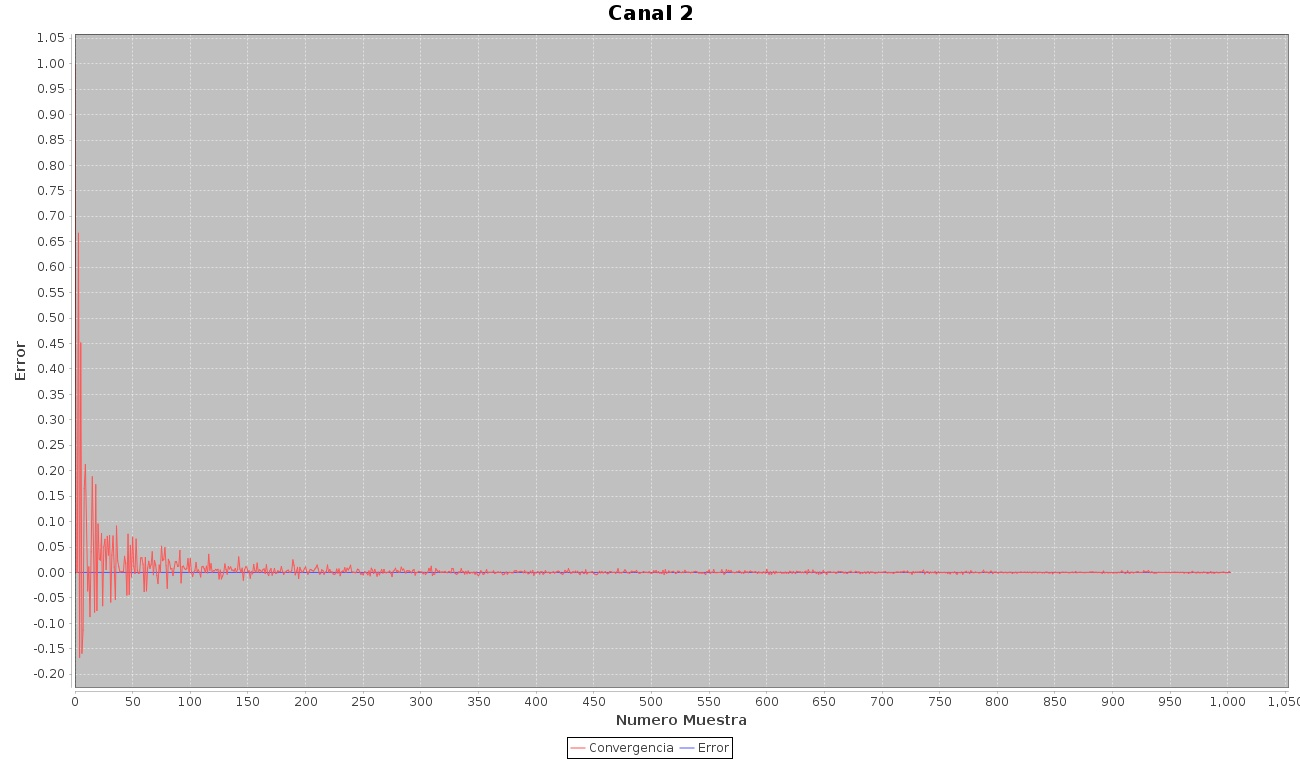
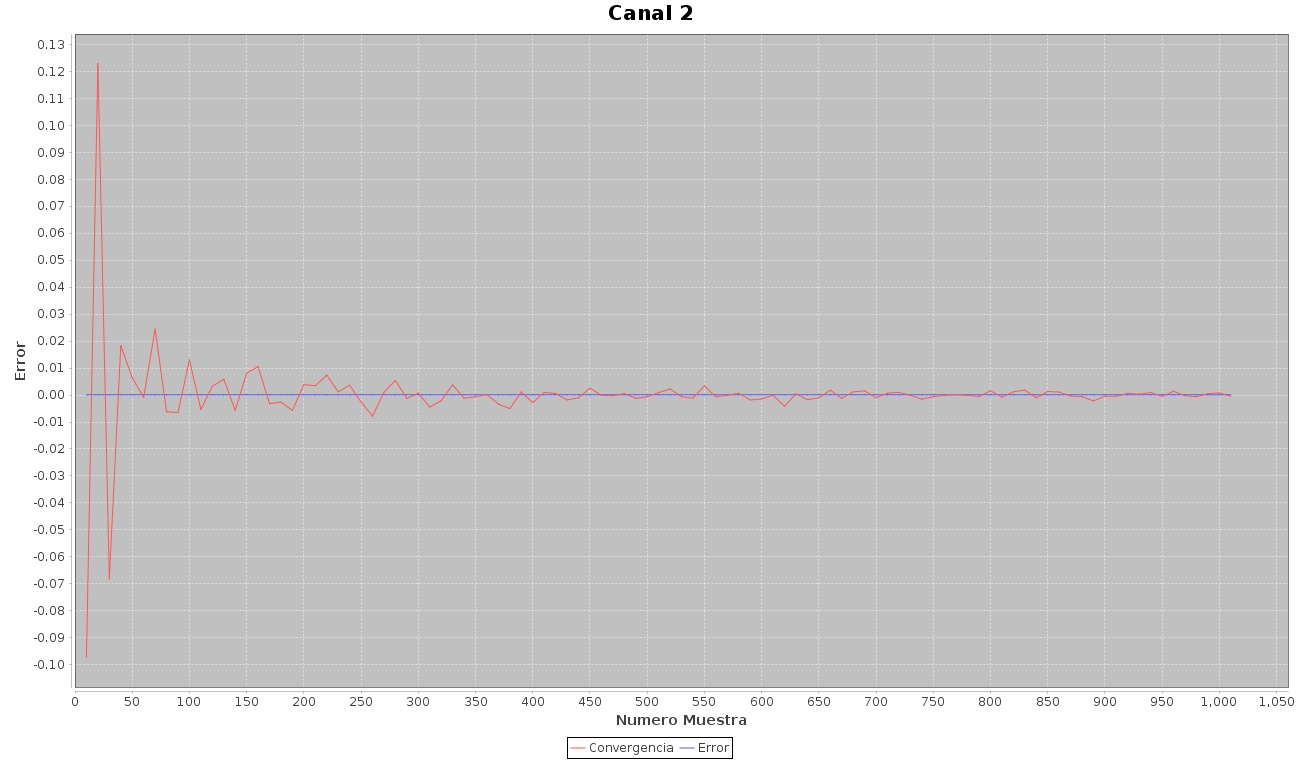
verificacion del grafico v2

diff --git a/src/ejercicio4/Ej4.java b/src/ejercicio4/Ej4.java
@@ -47,8 +47,6 @@ public class Ej4 {
         System.out.println("\nRuido del canal 2: "+c2.getRuido(1e-4));
         System.out.println("Ruido analitico del canal 2: " + c2.getRuidoAnalitico());
         c2.generarGrafico("Grafico de canal 2","Canal 2");
-        c2.getRuido(0.1);
-        c2.generarGrafico("Grafico del canal 2 con error mayor","Canal 2 error mayor");
         System.out.println("Ruido del canal 8: "+c8.getRuido(1e-4));
         System.out.println("Ruido analitico del canal 8: " + c8.getRuidoAnalitico());
         System.out.println("Ruido del canal 10: "+c10.getRuido(1e-4));

diff --git a/src/ejercicio4/Grafico.java b/src/ejercicio4/Grafico.java
@@ -46,9 +46,10 @@ public class Grafico extends ApplicationFrame {
         XYSeries datasetConvergencia = new XYSeries("Convergencia");
         XYSeries datasetError = new XYSeries("Error");
         for (int i=0;i<muestra.size();i++){
+            if((i%10==0)&&(muestra.get(i)<0.5)&&(muestra.get(i)>-0.5)) {
                 datasetConvergencia.add(i,(double)muestra.get(i));
                 datasetError.add(i,epsilon);
-
+            }
         }
         XYSeriesCollection dataset=new XYSeriesCollection();
         dataset.addSeries(datasetConvergencia);
